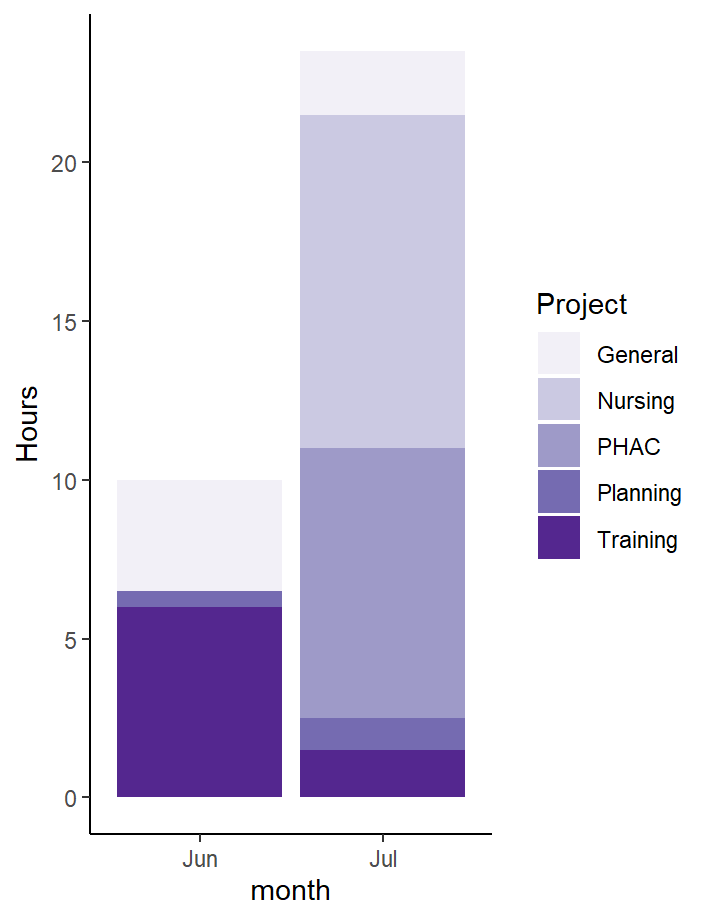
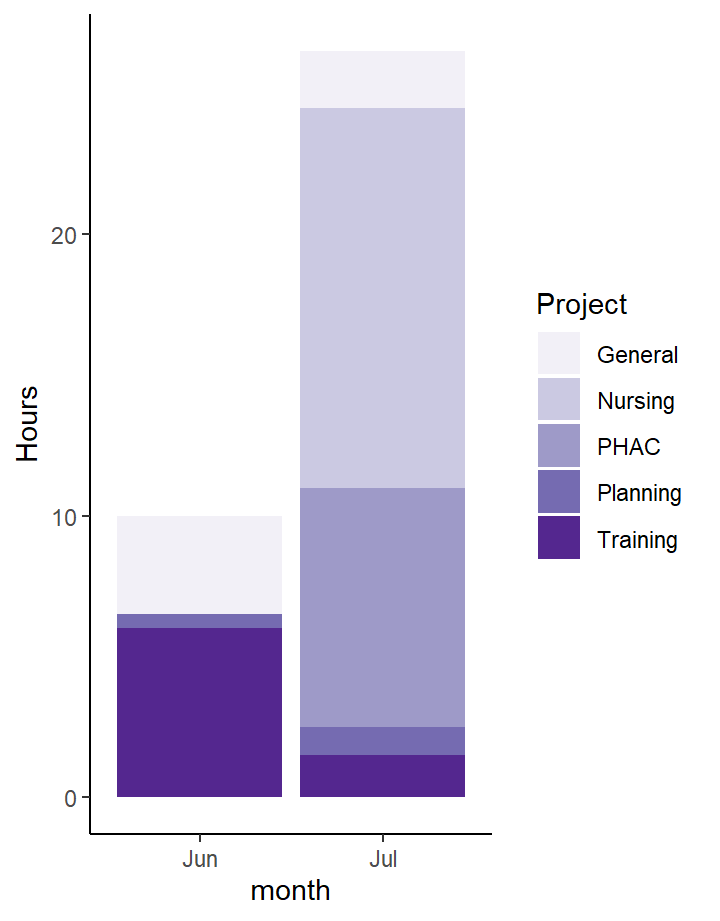
wed

diff --git a/docs/index.html b/docs/index.html
@@ -1892,11 +1892,11 @@ class="section level3">
 </div>
 <table>
 <colgroup>
-<col width="12%" />
-<col width="13%" />
+<col width="8%" />
 <col width="9%" />
-<col width="58%" />
-<col width="6%" />
+<col width="7%" />
+<col width="69%" />
+<col width="4%" />
 </colgroup>
 <thead>
 <tr class="header">
@@ -1929,6 +1929,14 @@ class="section level3">
 <td align="left">Researching capturing HCP perspectives, making
 notes</td>
 <td align="right">2.0</td>
+</tr>
+<tr class="even">
+<td align="left">2024-07-17</td>
+<td align="left">Wednesday</td>
+<td align="left">Nursing</td>
+<td align="left">Generating drafts of the survey materials for Phase I
+&amp; II, drafing invitation emails</td>
+<td align="right">3.0</td>
 </tr>
 </tbody>
 </table>
@@ -1989,80 +1997,87 @@ class="section level3">
 </thead>
 <tbody>
 <tr class="odd">
+<td align="left">2024-07-17</td>
+<td align="left">Nursing</td>
+<td align="left">Generating drafts of the survey materials for Phase I
+&amp; II, drafing invitation emails</td>
+<td align="right">3.0</td>
+</tr>
+<tr class="even">
 <td align="left">2024-07-16</td>
 <td align="left">Nursing</td>
 <td align="left">Researching capturing HCP perspectives, making
 notes</td>
 <td align="right">2.0</td>
 </tr>
-<tr class="even">
+<tr class="odd">
 <td align="left">2024-07-15</td>
 <td align="left">Training</td>
 <td align="left">REDCap training module</td>
 <td align="right">0.5</td>
 </tr>
-<tr class="odd">
+<tr class="even">
 <td align="left">2024-07-15</td>
 <td align="left">Nursing</td>
 <td align="left">Researching Spasticity mechanisms and management</td>
 <td align="right">1.0</td>
 </tr>
-<tr class="even">
+<tr class="odd">
 <td align="left">2024-07-12</td>
 <td align="left">Planning</td>
 <td align="left">Making meeting notes, listing things to make.</td>
 <td align="right">1.0</td>
 </tr>
-<tr class="odd">
+<tr class="even">
 <td align="left">2024-07-11</td>
 <td align="left">General</td>
 <td align="left">Jennet &amp; Amanda - Meeting to touch base &amp; learn
 about WREM</td>
 <td align="right">1.0</td>
 </tr>
-<tr class="even">
+<tr class="odd">
 <td align="left">2024-07-10</td>
 <td align="left">Nursing</td>
 <td align="left">Revising lay summary, drafing project description,
 working on ref automation.</td>
 <td align="right">3.0</td>
 </tr>
-<tr class="odd">
+<tr class="even">
 <td align="left">2024-07-09</td>
 <td align="left">Nursing</td>
 <td align="left">Generating draft of Lay summary, reviewing project
 parameters, reading about spasticity</td>
 <td align="right">1.0</td>
 </tr>
-<tr class="even">
+<tr class="odd">
 <td align="left">2024-07-09</td>
 <td align="left">Nursing</td>
 <td align="left">Improving draft of Lay summary, reading about types of
 nurses and differences in their educational training</td>
 <td align="right">2.0</td>
 </tr>
-<tr class="odd">
+<tr class="even">
 <td align="left">2024-07-08</td>
 <td align="left">General</td>
 <td align="left">Improving time tracking to show ALL historical tasks
 listed specifically + Total time on each project category.</td>
 <td align="right">0.5</td>
 </tr>
-<tr class="even">
+<tr class="odd">
 <td align="left">2024-07-08</td>
 <td align="left">Nursing</td>
 <td align="left">Reading WeRPN + Lawson Grant Materials, Finding /
 downloading / organizing WeRPN references.</td>
 <td align="right">1.5</td>
 </tr>
-<tr class="odd">
+<tr class="even">
 <td align="left">2024-07-05</td>
 <td align="left">PHAC</td>
 <td align="left">Reading papers, learning about the CTAS and ICD codes,
 making notes.</td>
 <td align="right">3.0</td>
 </tr>
-<tr class="even">
+<tr class="odd">
 <td align="left">2024-07-05</td>
 <td align="left">PHAC</td>
 <td align="left">Reading and assessing field-specific standards for data
@@ -2070,83 +2085,83 @@ visualizatioin. Work on code based approach to generate APA-formatted
 tables through R.</td>
 <td align="right">2.5</td>
 </tr>
-<tr class="odd">
+<tr class="even">
 <td align="left">2024-07-03</td>
 <td align="left">PHAC</td>
 <td align="left">Reading grant, sourcing REB docs, sourcing &amp;
 organizing refs in manager, making notes.</td>
 <td align="right">3.0</td>
 </tr>
-<tr class="even">
+<tr class="odd">
 <td align="left">2024-07-02</td>
 <td align="left">Training</td>
 <td align="left">Responsible Conduct of Research - Second half</td>
 <td align="right">1.0</td>
 </tr>
-<tr class="odd">
+<tr class="even">
 <td align="left">2024-07-02</td>
 <td align="left">General</td>
 <td align="left">Upload Certificates to ReDA, emails</td>
 <td align="right">0.5</td>
 </tr>
-<tr class="even">
+<tr class="odd">
 <td align="left">2024-06-29</td>
 <td align="left">Training</td>
 <td align="left">Responsible Conduct of Research - First half of
 module</td>
 <td align="right">1.0</td>
 </tr>
-<tr class="odd">
+<tr class="even">
 <td align="left">2024-06-28</td>
 <td align="left">Training</td>
 <td align="left">Canada GCP - Stage 1 - Basic</td>
 <td align="right">2.0</td>
 </tr>
-<tr class="even">
+<tr class="odd">
 <td align="left">2024-06-28</td>
 <td align="left">Training</td>
 <td align="left">Health Canada Division 5 - Drugs For Clinical Trials
 Involving Human Subjects</td>
 <td align="right">1.0</td>
 </tr>
-<tr class="odd">
+<tr class="even">
 <td align="left">2024-06-27</td>
 <td align="left">General</td>
 <td align="left">Emails, Setting up OneDrive syncing to PC (2FA
 etc.)</td>
 <td align="right">0.5</td>
 </tr>
-<tr class="even">
+<tr class="odd">
 <td align="left">2024-06-26</td>
 <td align="left">Training</td>
 <td align="left">TCPS Modules A1 - A9 (Certificate provided)</td>
 <td align="right">1.0</td>
 </tr>
-<tr class="odd">
+<tr class="even">
 <td align="left">2024-06-25</td>
 <td align="left">General</td>
 <td align="left">Jennet &amp; Amanda - Meeting to touch base</td>
 <td align="right">1.0</td>
 </tr>
-<tr class="even">
+<tr class="odd">
 <td align="left">2024-06-25</td>
 <td align="left">General</td>
 <td align="left">Setup wuo Staff Account / HR Setup / Payroll Setup</td>
 <td align="right">1.0</td>
 </tr>
-<tr class="odd">
+<tr class="even">
 <td align="left">2024-06-25</td>
 <td align="left">General</td>
 <td align="left">Build Time Tracking Tool</td>
 <td align="right">1.0</td>
 </tr>
-<tr class="even">
+<tr class="odd">
 <td align="left">2024-06-25</td>
 <td align="left">Training</td>
 <td align="left">Lawson SOP training module</td>
 <td align="right">1.0</td>
 </tr>
-<tr class="odd">
+<tr class="even">
 <td align="left">2024-06-25</td>
 <td align="left">Planning</td>
 <td align="left">Writing out meeting notes / plans</td>
